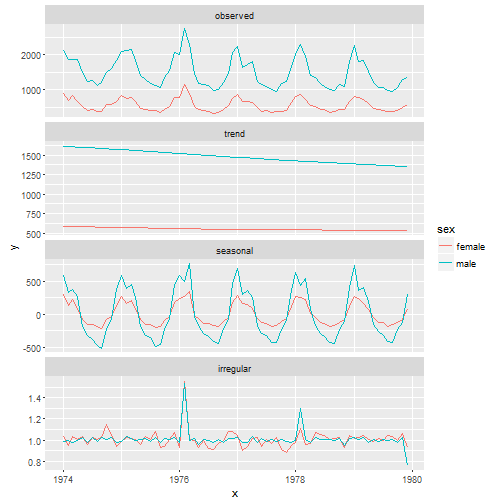
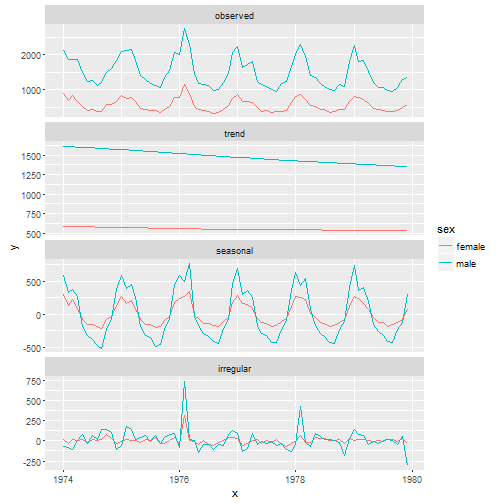
change balance of payments example data to actual quarterly data not rolling average so it actually is seasonal (might be helpful!)

diff --git a/README.md b/README.md
@@ -142,13 +142,16 @@ ggsdc(ldeaths_df, aes(x = YearMon, y = deaths, colour = sex), method = "seas",
 ![plot of chunk unnamed-chunk-6](figure/unnamed-chunk-6-3.png)
 
 ```r
-ggsdc(subset(nzbpm, Category == "Travel"),
-             aes(x = TimePeriod, y = Value, colour = Direction),
-             frequency = 4, s.window = 7) +
+serv <- subset(nzbop, Account == "Current account" & 
+                  Category %in% c("Services; Exports total", "Services; Imports total"))
+
+ggsdc(serv, aes(x = TimePeriod, y = Value, colour = Category),
+      method = "seas", start = c(1971, 2), frequency = 4) +
    geom_line() +
-   scale_y_continuous("NZ$ millions", label = comma) +
+   scale_y_continuous("NZ$ millions\ndecomposition by X13-SEATS-ARIMA", label = comma) +
    labs(x = "") +
-   ggtitle("New Zealand 'travel' balance of payments - greater seasonality in exports than imports")
+   ggtitle("New Zealand services balance of payments -\ngreater seasonality in exports than imports") +
+   theme_light()
 ```
 
 ![plot of chunk unnamed-chunk-6](figure/unnamed-chunk-6-4.png)
